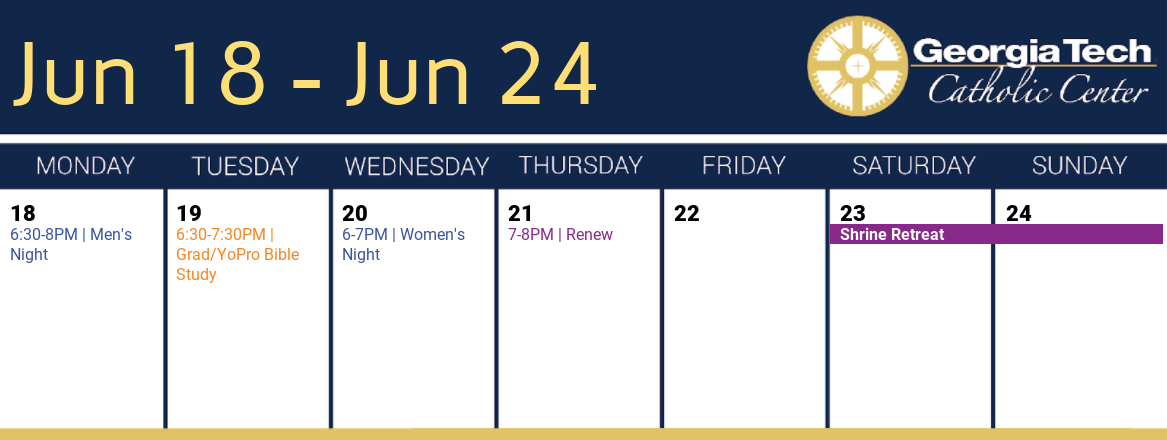
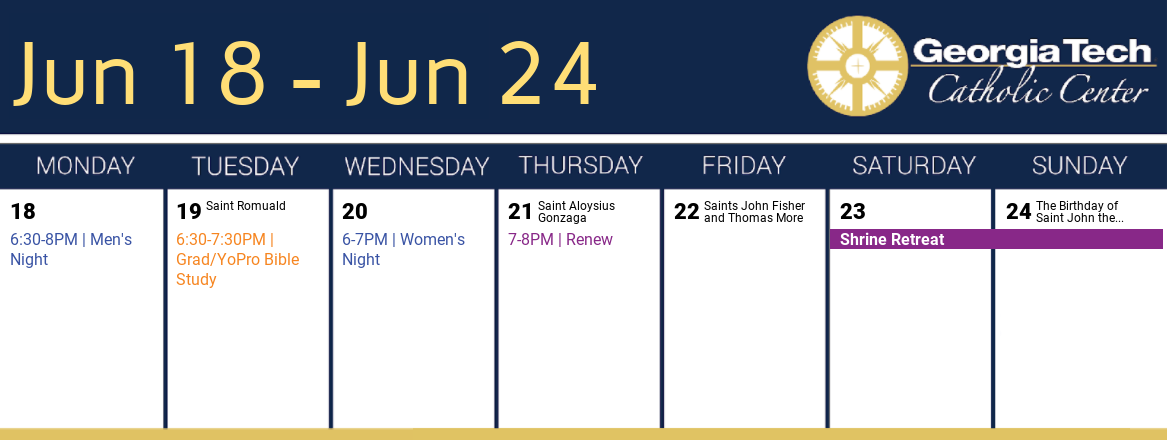
Pre-attempting rounded all-day events

diff --git a/html/weekFB.html b/html/weekFB.html
@@ -7,7 +7,6 @@
     <div class="form-group">
       <label for="sel1">Select Week:</label>
       <select class="form-control" id="sel1" name=weekSel>
-        <option>This Week</option>
         <option selected="selected">Next Week</option>
         <option>2 Weeks Ahead</option>
         <option>3 Weeks Ahead</option>

diff --git a/html/weekGT.html b/html/weekGT.html
@@ -7,7 +7,6 @@
     <div class="form-group">
       <label for="sel1">Select Week:</label>
       <select class="form-control" id="sel1" name=weekSel>
-        <option>This Week</option>
         <option selected="selected">Next Week</option>
         <option>2 Weeks Ahead</option>
         <option>3 Weeks Ahead</option>

diff --git a/gtcc_cal.py b/gtcc_cal.py
@@ -7,6 +7,7 @@ import pytz
 import textwrap
 import cal_maker
 import pprint as pp
+import webbrowser
 
 app = Bottle()
 
@@ -19,7 +20,7 @@ def load_html(files):
             templates[file] = f.read()
     return templates
 
-templates = load_html(['home','template','accordion','weekGT','accordion_all_day', 'weekFB'])
+templates = load_html(['home','template','accordion','weekGT', 'weekFB'])
 
 cal_feed = {}
 
@@ -43,7 +44,6 @@ def refresh_OrgSync():
     y = {'advert': 'on', 'desc_on': None}
     daily = {d_to_dt(datetime.timedelta(day) + start):
         [{**item, **y} for item in feed if item['event:startdate'] <= d_to_dt(datetime.timedelta(day+1) + start) and item['event:enddate'] >= d_to_dt(datetime.timedelta(day) + start) and not item['isallday']] for day in range((last - start).days)}
-    y = {'advert': 'on'}
     all_day = [{**item, **y} for item in feed if item['isallday']]
     return {'daily': daily, 'all_day': all_day}
 
@@ -73,20 +73,21 @@ def weekGT():
         accord = ''
         for event in cal_feed['all_day']:
             if event['event:startdate'] < max(editable.keys()) and event['event:enddate'] >= min(editable.keys()):
-                anacc = templates['accordion_all_day'].format(id=event['link'].split('/')[-1],title=event['title'],month=str(event['event:startdate'].month),day_=str(event['event:startdate'].day))
+                anacc = templates['accordion'].format(id=event['link'].split('/')[-1],title=event['title'],month=str(event['event:startdate'].month),day_=str(event['event:startdate'].day),description='' if 'description' not in event else event['description'])
                 accord = accord + anacc
         for day in editable:
             for event in editable[day]:
                 anacc = templates['accordion'].format(id=event['link'].split('/')[-1],title=event['title'],month=str(day.month),day_=str(day.day),description='' if 'description' not in event else event['description'])
                 accord = accord + anacc
         return templates['template'].format(body=templates['weekGT'],home_act='',prt_act='',GT_act='class="active"',week_act='',end_act='').format(image=active_glance,accordion='''<div class="panel-group" id="accordion">
-    <form action="/weekGT" method="POST">'''+accord+
+    <form action="/weekGT" method="POST"><input type="hidden" name="ask_week" value="'''+str(ask_week)+'''"/>'''+accord+
             '''            <br>
             <button type="submit" class="btn btn-default" name="save2" value="iii">Update</button>
     </form>
 </div>''')
     elif request.POST.save2:
         request.POST.pop('save2', None)
+        ask_week = int(request.POST.pop('ask_week'))
         ids = set([key.split('-')[-1] for key in request.POST])
         features = {id: {key.split('-')[0]: request.POST[key] for key in request.POST if key.split('-')[-1] == id} for id in ids}
         for id in features:
@@ -94,7 +95,9 @@ def weekGT():
             for event in cal_feed['all_day']:
                 if id == event['link'].split('/')[-1]:
                     event['advert'] = 'on' if 'advert' in features[id] else 'off'
+                    event['desc_on'] = 'on' if 'desc_on' in features[id] else 'off'
                     event['title'] = features[id]['title']
+                    event['description'] = features[id]['description']
                     comp = True
                     break
             for day in cal_feed['daily']:
@@ -109,19 +112,18 @@ def weekGT():
                             event['description'] = features[id]['description']
                             break
                             break
-        ask_week = 0
         active_glance, editable = cal_maker.week_at_a_glance(cal_feed, ask_week)
         accord = ''
         for event in cal_feed['all_day']:
             if event['event:startdate'] < max(editable.keys()) and event['event:enddate'] >= min(editable.keys()):
-                anacc = templates['accordion_all_day'].format(id=event['link'].split('/')[-1],title=event['title'],month=str(event['event:startdate'].month),day_=str(event['event:startdate'].day))
+                anacc = templates['accordion'].format(id=event['link'].split('/')[-1],title=event['title'],month=str(event['event:startdate'].month),day_=str(event['event:startdate'].day),description='' if 'description' not in event else event['description'])
                 accord = accord + anacc
         for day in editable:
             for event in editable[day]:
                 anacc = templates['accordion'].format(id=event['link'].split('/')[-1],title=event['title'],month=str(day.month),day_=str(day.day),description='' if 'description' not in event else event['description'])
                 accord = accord + anacc
         return templates['template'].format(body=templates['weekGT'],home_act='',prt_act='',GT_act='class="active"',week_act='',end_act='').format(image=active_glance,accordion='''<div class="panel-group" id="accordion">
-    <form action="/weekGT" method="POST">'''+accord+
+    <form action="/weekGT" method="POST"><input type="hidden"  name="ask_week" value="'''+str(ask_week)+'''"/>'''+accord+
             '''            <br>
             <button type="submit" class="btn btn-default" name="save2" value="iii">Update</button>
     </form>
@@ -143,20 +145,21 @@ def weekFB():
         accord = ''
         for event in cal_feed['all_day']:
             if event['event:startdate'] < max(editable.keys()) and event['event:enddate'] >= min(editable.keys()):
-                anacc = templates['accordion_all_day'].format(id=event['link'].split('/')[-1],title=event['title'],month=str(event['event:startdate'].month),day_=str(event['event:startdate'].day))
+                anacc = templates['accordion'].format(id=event['link'].split('/')[-1],title=event['title'],month=str(event['event:startdate'].month),day_=str(event['event:startdate'].day),description='' if 'description' not in event else event['description'])
                 accord = accord + anacc
         for day in editable:
             for event in editable[day]:
                 anacc = templates['accordion'].format(id=event['link'].split('/')[-1],title=event['title'],month=str(day.month),day_=str(day.day),description='' if 'description' not in event else event['description'])
                 accord = accord + anacc
         return templates['template'].format(body=templates['weekFB'],home_act='',prt_act='',GT_act='',week_act='class="active"',end_act='').format(image=active_glance,accordion='''<div class="panel-group" id="accordion">
-    <form action="/weekFB" method="POST">'''+accord+
+    <form action="/weekFB" method="POST"><input type="hidden"  name="ask_week" value="'''+str(ask_week)+'''"/>'''+accord+
             '''            <br>
             <button type="submit" class="btn btn-default" name="save2" value="iii">Update</button>
     </form>
 </div>''')
     elif request.POST.save2:
         request.POST.pop('save2', None)
+        ask_week = int(request.POST.pop('ask_week'))
         ids = set([key.split('-')[-1] for key in request.POST])
         features = {id: {key.split('-')[0]: request.POST[key] for key in request.POST if key.split('-')[-1] == id} for id in ids}
         for id in features:
@@ -164,7 +167,9 @@ def weekFB():
             for event in cal_feed['all_day']:
                 if id == event['link'].split('/')[-1]:
                     event['advert'] = 'on' if 'advert' in features[id] else 'off'
+                    event['desc_on'] = 'on' if 'desc_on' in features[id] else 'off'
                     event['title'] = features[id]['title']
+                    event['description'] = features[id]['description']
                     comp = True
                     break
             for day in cal_feed['daily']:
@@ -184,14 +189,14 @@ def weekFB():
         accord = ''
         for event in cal_feed['all_day']:
             if event['event:startdate'] < max(editable.keys()) and event['event:enddate'] >= min(editable.keys()):
-                anacc = templates['accordion_all_day'].format(id=event['link'].split('/')[-1],title=event['title'],month=str(event['event:startdate'].month),day_=str(event['event:startdate'].day))
+                anacc = templates['accordion'].format(id=event['link'].split('/')[-1],title=event['title'],month=str(event['event:startdate'].month),day_=str(event['event:startdate'].day),description='' if 'description' not in event else event['description'])
                 accord = accord + anacc
         for day in editable:
             for event in editable[day]:
                 anacc = templates['accordion'].format(id=event['link'].split('/')[-1],title=event['title'],month=str(day.month),day_=str(day.day),description='' if 'description' not in event else event['description'])
                 accord = accord + anacc
         return templates['template'].format(body=templates['weekFB'],home_act='',prt_act='',GT_act='',week_act='class="active"',end_act='').format(image=active_glance,accordion='''<div class="panel-group" id="accordion">
-    <form action="/weekFB" method="POST">'''+accord+
+    <form action="/weekFB" method="POST"><input type="hidden"  name="ask_week" value="'''+str(ask_week)+'''"/>'''+accord+
             '''            <br>
             <button type="submit" class="btn btn-default" name="save2" value="iii">Update</button>
     </form>
@@ -199,4 +204,5 @@ def weekFB():
     else:
         return templates['template'].format(body=templates['weekFB'],home_act='',prt_act='',GT_act='',week_act='class="active"',end_act='').format(image='week.png',accordion='')
 
+webbrowser.open('http://localhost:8080',new=2)
 run(app, host='localhost', port=8080)

diff --git a/cal_maker.py b/cal_maker.py
@@ -115,7 +115,7 @@ def next_weekday(d, weekday): # 0 = Monday, 1=Tuesday, 2=Wednesday...
     return d + datetime.timedelta(days_ahead)
 
 def lighten(color):
-    return tuple(list(color)+[178])
+    return tuple(list(color)+[125])
 
 def make_date(item):
     return (str(((item['event:startdate'].hour-1) % 12)+1) +
@@ -124,6 +124,24 @@ def make_date(item):
                 ('' if item['event:enddate'].minute == 0 else (':'+str(item['event:enddate'].minute))) +
                 ('AM' if item['event:enddate'].hour < 12 else 'PM') +
                 ' | ')
+
+def round_corner(radius, fill):
+    """Draw a round corner"""
+    corner = Image.new('RGBA', (radius, radius), (0, 0, 0, 0))
+    draw = ImageDraw.Draw(corner)
+    draw.pieslice((0, 0, radius * 2, radius * 2), 180, 270, fill=fill)
+    return corner
+
+def round_rectangle(size, radius, fill):
+    """Draw a rounded rectangle"""
+    width, height = size
+    rectangle = Image.new('RGBA', size, fill)
+    corner = round_corner(radius, fill)
+    rectangle.paste(corner, (0, 0))
+    rectangle.paste(corner.rotate(90), (0, height - radius)) # Rotate the corner and paste it
+    rectangle.paste(corner.rotate(180), (width - radius, height - radius))
+    rectangle.paste(corner.rotate(270), (width - radius, 0))
+    return rectangle
 
 def week_at_a_glance(cal_feed, adj_week, start_time = datetime.date.today(), spec_title = False):
     # Image constants
@@ -159,15 +177,18 @@ def week_at_a_glance(cal_feed, adj_week, start_time = datetime.date.today(), spe
         wr_day = next_monday + datetime.timedelta(n)
         # Draw calendar date onto calendar
         draw.text((10+day_width*n, 198), str(wr_day.day), (0,0,0), font=day_font)
-        holy_day = get_saints_day(wr_day, lit_cal)
+        lines = textwrap.wrap(get_saints_day(wr_day, lit_cal), width=20)
         m = 0
-        for line in textwrap.wrap(holy_day, width=20):
-            draw.text((40+day_width*n, 198+12*m), line, (0,0,0), font=desc)
+        for ndx, line in enumerate(lines):
+            draw.text((40+day_width*n, 198+12*m), line + ('...' if ndx == 1 and len(lines) > 2 else ''), (0,0,0), font=desc)
+            if ndx == 1 and len(line) > 2:
+                break
             m = m + 1
         to_edit[wr_day] = []
         # mth row to write text on
         m = 0
         # Iterate through the OrgSync Feed
+        m1 = 0
         for item in cal_feed['all_day']:
             if item['advert'] == 'on' and item['event:startdate'] < wr_day + datetime.timedelta(1) and item['event:enddate'] >= wr_day:
                 # Create event string
@@ -179,7 +200,13 @@ def week_at_a_glance(cal_feed, adj_week, start_time = datetime.date.today(), spe
                         draw.text((10+day_width*n, 230+event_text_height*m),line,(255,255,255),font=all_day)
                     #o = draw.textsize(line,font=event)[0]
                     m = m + 1
-        m1 = 0
+                if 'desc_on' in item and item['desc_on'] == 'on' and item['description'] and wr_day - item['event:startdate'] < datetime.timedelta(1):
+                    lines = textwrap.wrap(item['description'], width=22)
+                    draw.rectangle([(10+day_width*n,230+event_text_height*m+desc_text_height*m1),(150+day_width*n,230+event_text_height*m+desc_text_height*(m1+len(lines)))],fill=lighten(colors[item['event:type'] if item['event:type'] in colors.keys() else 'Other']))
+                    for line in lines:
+                        (w, h) = draw.textsize(line,font=desc)
+                        draw.text((10+day_width*n+(140-w)/2, 230+event_text_height*m+desc_text_height*m1),line,(0,0,0),font=desc)
+                        m1 = m1 + 1
         if wr_day in cal_feed['daily']:
             for item in cal_feed['daily'][wr_day]:
                 to_edit[wr_day].append(item)
@@ -197,7 +224,7 @@ def week_at_a_glance(cal_feed, adj_week, start_time = datetime.date.today(), spe
                         m = m + 1
                     if 'desc_on' in item and item['desc_on'] == 'on' and item['description']:
                         lines = textwrap.wrap(item['description'], width=22)
-                        draw.rectangle([(10+day_width*n,230+event_text_height*m+desc_text_height*m1),(150+day_width*n,230+event_text_height*m+desc_text_height*(m1+len(lines)))],fill=lighten(colors[item['event:type'] if item['event:type'] in colors.keys() else 'Other']), outline=(0,0,0))
+                        draw.rectangle([(10+day_width*n,230+event_text_height*m+desc_text_height*m1),(150+day_width*n,230+event_text_height*m+desc_text_height*(m1+len(lines)))],fill=lighten(colors[item['event:type'] if item['event:type'] in colors.keys() else 'Other']))
                         for line in lines:
                             (w, h) = draw.textsize(line,font=desc)
                             draw.text((10+day_width*n+(140-w)/2, 230+event_text_height*m+desc_text_height*m1),line,(0,0,0),font=desc)
@@ -271,7 +298,7 @@ def this_week_at_GTCC(cal_feed, adj_week, start_time = datetime.date.today(), sp
                         m = m + 1
                     if 'desc_on' in item and item['desc_on'] == 'on' and item['description']:
                         lines = textwrap.wrap(item['description'], width=22)
-                        draw.rectangle([(5+day_width*n,start_height+event_text_height*m+desc_text_height*m1),(150+day_width*n,start_height+event_text_height*m+desc_text_height*(m1+len(lines)))],fill=lighten(colors[item['event:type'] if item['event:type'] in colors.keys() else 'Other']), outline=(0,0,0))
+                        draw.rectangle([(5+day_width*n,start_height+event_text_height*m+desc_text_height*m1),(150+day_width*n,start_height+event_text_height*m+desc_text_height*(m1+len(lines)))],fill=lighten(colors[item['event:type'] if item['event:type'] in colors.keys() else 'Other']))
                         for line in lines:
                             (w, h) = draw.textsize(line,font=desc)
                             draw.text((10+day_width*n+(140-w)/2, start_height+event_text_height*m+desc_text_height*m1),line,(0,0,0),font=desc)
